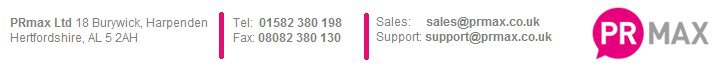
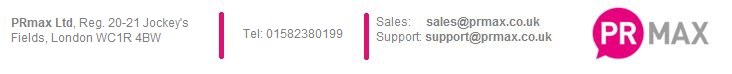
Invoice footer change address, collateral xslx file format, DD expire date

Changed region(s): [[0.0, 0.169, 0.7703, 0.8451], [0.8011, 0.0845, 1.0, 0.8451], [0.0, 0.4225, 0.2465, 0.5915]]

diff --git a/prcommon/prcommon/model/admin.py b/prcommon/prcommon/model/admin.py
@@ -615,8 +615,11 @@ class PRMaxAdmin(BaseSql):
 			customer.advancefeatures = params["advancefeatures"]
 			if params["advancefeatures"]:
 				customer.advance_licence_start = params["advance_licence_start"]
-				advance_licence_expired = customer.advance_licence_start + \
-					datetime.timedelta(days=(params["adv_months_free"] + params["adv_months_paid"]) * 30)
+				if params["orderpaymentmethodid"] in Constants.OrderConfirmationPayment_Is_DD:
+					advance_licence_expired = licence_expire
+				else:
+					advance_licence_expired = customer.advance_licence_start + \
+						datetime.timedelta(days=(params["adv_months_free"] + params["adv_months_paid"]) * 30)
 				if customer.advance_licence_expired != advance_licence_expired:
 					customer.advance_licence_expired = advance_licence_expired
 					session.add(AuditTrail(audittypeid=Constants.audit_expire_date_changed,
@@ -641,8 +644,12 @@ class PRMaxAdmin(BaseSql):
 				customer.maxmonitoringusers = params["maxmonitoringusers"]
 
 				customer.updatum_start_date = params["updatum_start_date"]
-				updatum_end_date = customer.updatum_start_date + \
-					datetime.timedelta(days=(params["updatum_months_free"] + params["updatum_months_paid"]) * 30)
+				
+				if params["orderpaymentmethodid"] in Constants.OrderConfirmationPayment_Is_DD:
+					updatum_end_date = licence_expire
+				else:				
+					updatum_end_date = customer.updatum_start_date + \
+						datetime.timedelta(days=(params["updatum_months_free"] + params["updatum_months_paid"]) * 30)
 				if customer.updatum_start_date != updatum_end_date:
 					customer.updatum_end_date = updatum_end_date
 					session.add(AuditTrail(audittypeid=Constants.audit_expire_date_changed,

diff --git a/prmax/prmax/sitecontrollers/collateral.py b/prmax/prmax/sitecontrollers/collateral.py
@@ -326,7 +326,8 @@ class ECollateralController(controllers.RootController):
 	                         xla="application/vnd.ms-excel",
 	                         xlc="application/vnd.ms-excel",
 	                         xlm="application/vnd.ms-excel",
-	                         xls="application/vnd.ms-excel",
+				 xls="application/vnd.ms-excel",
+				 xlsx="application/vnd.ms-excel",
 	                         xlt="application/vnd.ms-excel",
 	                         xlw="application/vnd.ms-excel",
 	                         xof="x-world/x-vrml",

diff --git a/ttl/ttl/ttlemail.py b/ttl/ttl/ttlemail.py
@@ -926,6 +926,7 @@ CONTENTHEADERS = dict (
   xlc = "application/vnd.ms-excel",
   xlm = "application/vnd.ms-excel",
   xls = "application/vnd.ms-excel",
+  xlsx = "application/vnd.ms-excel",
   xlt = "application/vnd.ms-excel",
   xlw = "application/vnd.ms-excel",
   xof = "x-world/x-vrml",

diff --git a/prcommon/prcommon/Const/Data.py b/prcommon/prcommon/Const/Data.py
@@ -274,7 +274,7 @@ NewsFeed_SEO 		 = 3
 NewsFeed_Monitor = 4
 
 from datetime import date
-Direct_Debit_Expire_Date = date(2020, 12, 31)
+Direct_Debit_Expire_Date = date(2035, 12, 31)
 
 OrderConfirmationPayment_CC = 1
 OrderConfirmationPayment_SI_GA = 2
